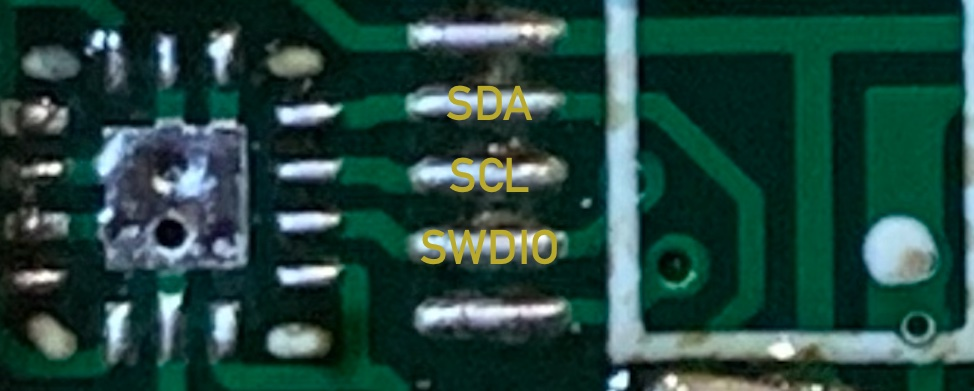
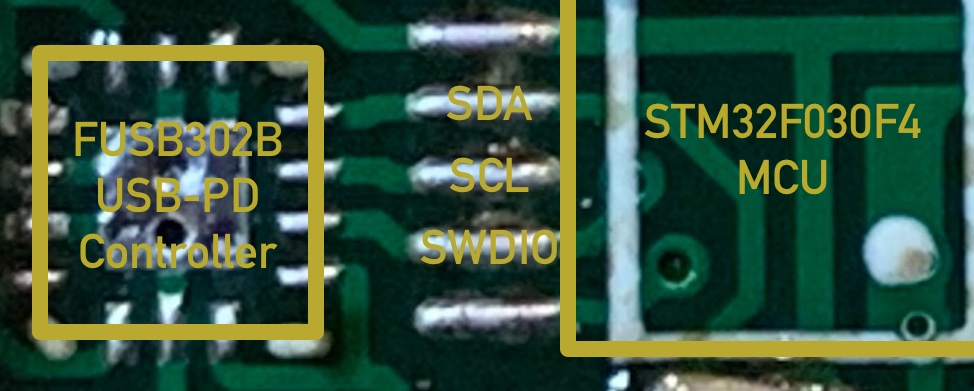
Updated notes

diff --git a/README.md b/README.md
@@ -1,4 +1,6 @@
-# Open-Source Firmware for ZY12PDN USB Power Delivery Trigger
+# Open-Source Firmware for ZY12PDN USB-PD
+
+Open-source firmware for USB Power Delivery trigger board based on an FUSB302B power delivery controller and a STM32F030F4 MCU.
 
 ![ZY12PDN board](doc/board.jpg)
 
@@ -19,6 +21,7 @@ Connect the SWD pads with an ST-Link, J-Link or Black Magic Probe to your comput
 
 In most cases, you will need to try twice since the board does not enable the SWD pins quickly enough.
 
+
 ## Supported PD Messages
 
  - *Capabilities*: The source announces the supported voltages. The sink must immediately request one of the voltages.
@@ -26,6 +29,7 @@ In most cases, you will need to try twice since the board does not enable the SW
  - *Accept*: The source confirms the requested voltage. The new voltage is not ready yet.
  - *Reject*: The source rejects the requested voltage.
  - *PS_RDY*: The source indicates that the request voltage has been applied.
+
 
 ## Notes
 
@@ -35,6 +39,8 @@ In most cases, you will need to try twice since the board does not enable the SW
 - The firmware does not properly work with Apple's 87W USB-C Power Adapter. It eventually works but the voltage is cut for a short time and reapplied. The firmware reboots and after that is occupied with endless interrupts. 
 - Using the build flag `-D PD_DEBUG`, debugging output can be enabled. In order to see it, you have to solder a wire to PA2 (USART2 TX pin) and connect it to a serial adapter. The baud rate is 115,200 bps.
 - All the code is very timing sensitive. Be very careful with debugging output in the `source_caps_changed` callback. It the debugging output takes too long, the USB power supply will likely reset and even cut the power.
+- The FUSB302B chip can monitor VBUS. However, the pin is not connected. So the firmware must derive the voltage from the USB PD messages (mainly *Request* and *PS_RDY*).
+
 
 ## Firmware Mode
 
